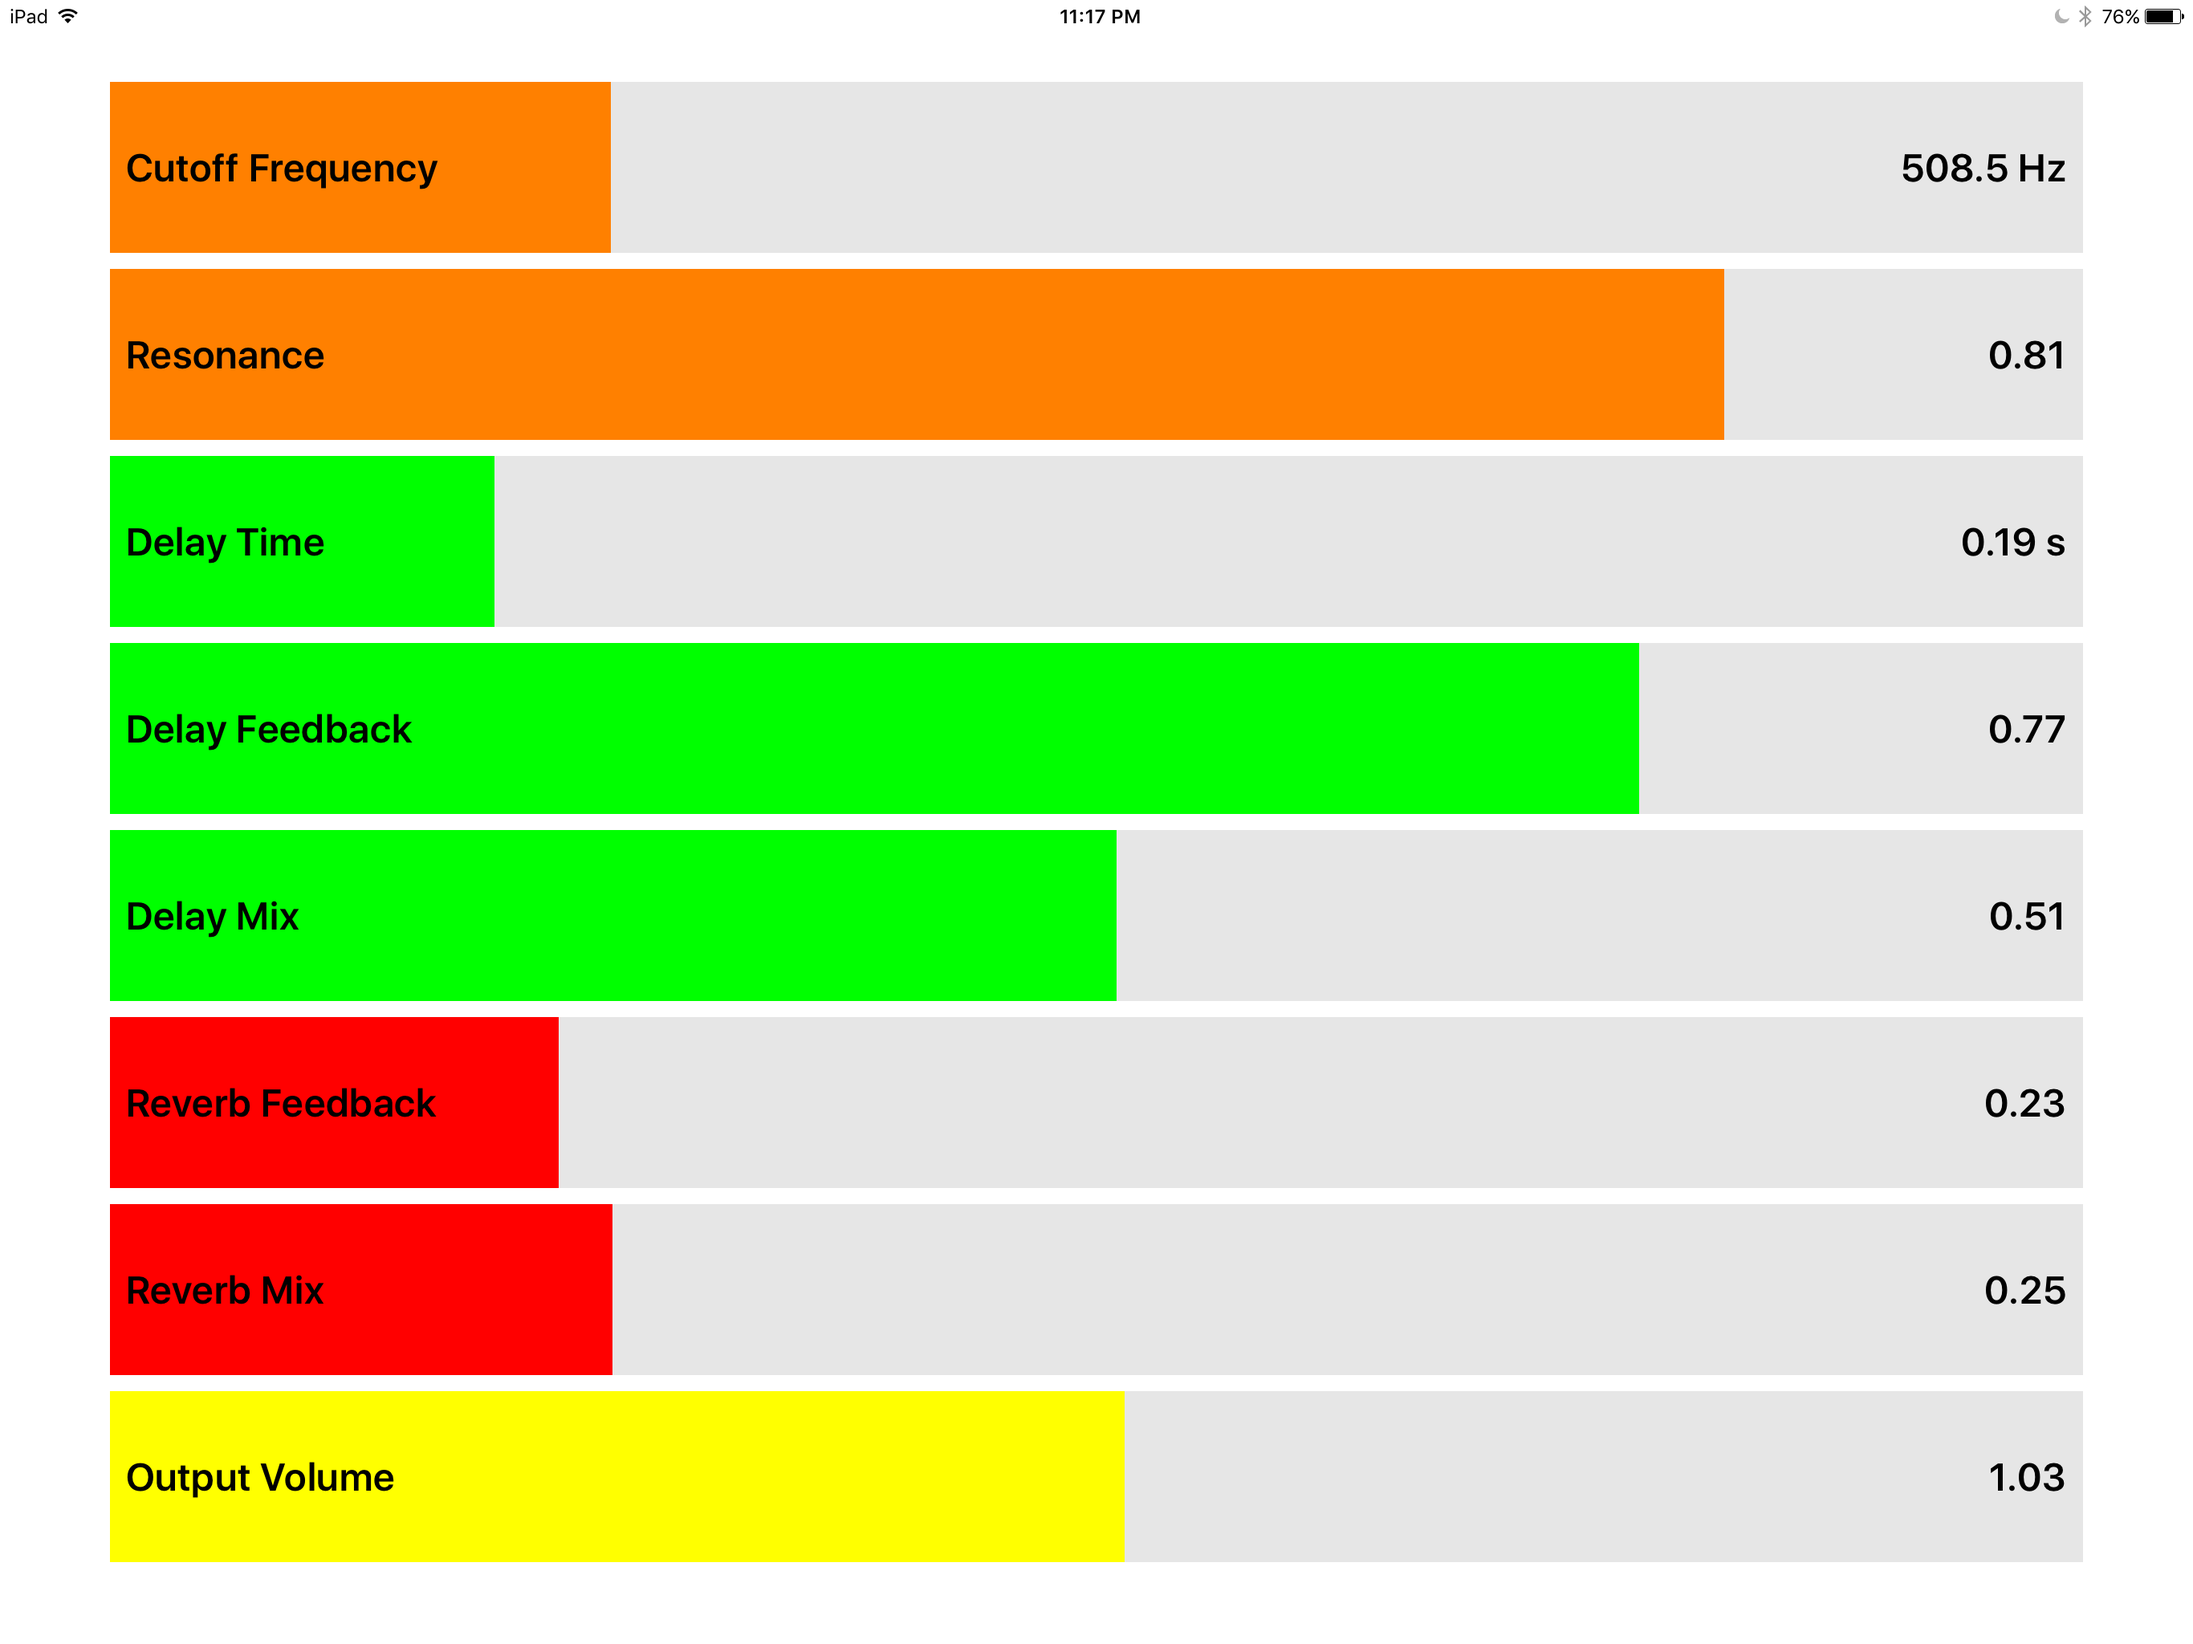
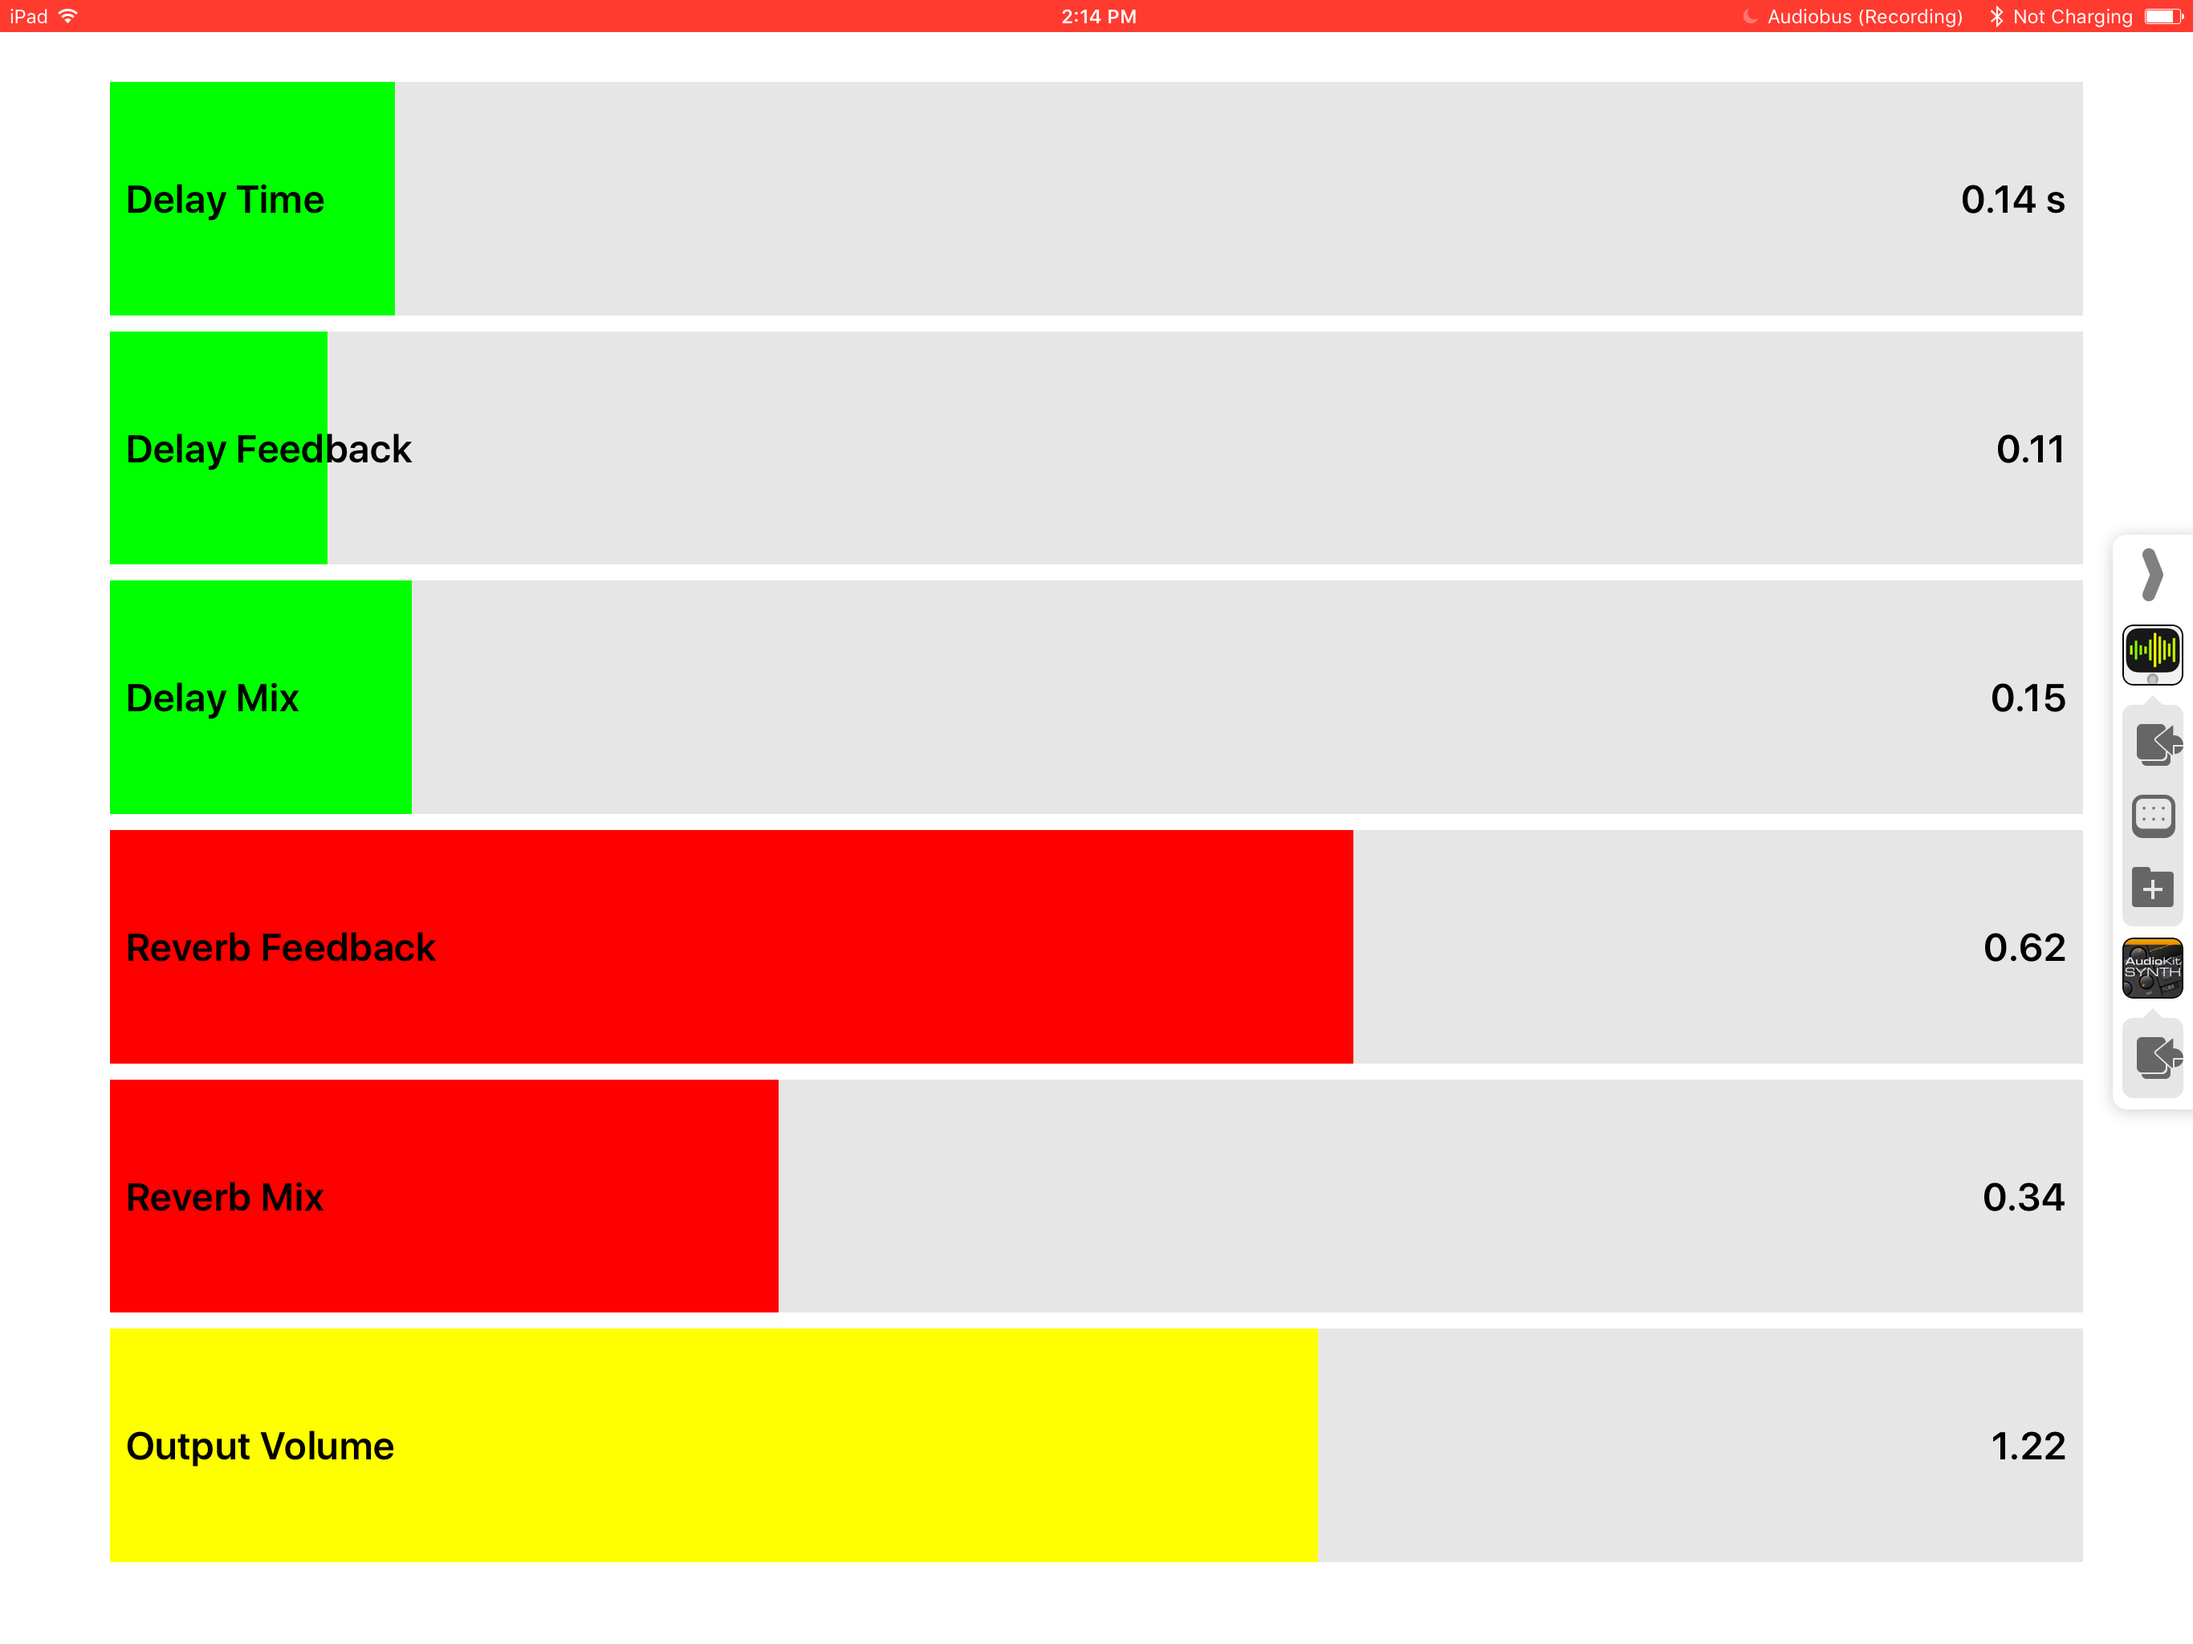
Updated Audiobus docs

diff --git a/audiobus/filter-effects/filter-effects.md b/audiobus/filter-effects/filter-effects.md
@@ -25,36 +25,38 @@ Set up the effects
 The AudioKit code here is a little bit longer than for the synth, mainly so we can offer quite a few effects:
 
 {% highlight ruby %}
-    import UIKit
-    import AudioKit
+import UIKit
+import AudioKit
 
-    class ViewController: UIViewController {
+class ViewController: UIViewController {
 
-        var filter: AKMoogLadder?
-        var delay: AKVariableDelay?
-        var delayMixer: AKDryWetMixer?
-        var reverb: AKCostelloReverb?
-        var reverbMixer: AKDryWetMixer?
-        var booster: AKBooster?
+    var delay: AKVariableDelay?
+    var delayMixer: AKDryWetMixer?
+    var reverb: AKCostelloReverb?
+    var reverbMixer: AKDryWetMixer?
+    var booster: AKBooster?
 
-        override func viewDidLoad() {
-            super.viewDidLoad()
+    override func viewDidLoad() {
+        super.viewDidLoad()
 
-            filter = AKMoogLadder(AKMicrophone())
+        let input = AKStereoInput()
 
-            delay = AKVariableDelay(filter!)
-            delay?.rampTime = 0.5 // Allows for some cool effects
-            delayMixer = AKDryWetMixer(filter!, delay!)
+        delay = AKVariableDelay(input)
+        delay?.rampTime = 0.5 // Allows for some cool effects
+        delayMixer = AKDryWetMixer(input, delay!)
 
-            reverb = AKCostelloReverb(delayMixer!)
-            reverbMixer = AKDryWetMixer(delayMixer!, reverb!)
+        reverb = AKCostelloReverb(delayMixer!)
+        reverbMixer = AKDryWetMixer(delayMixer!, reverb!)
 
-            booster = AKBooster(reverbMixer!)
+        booster = AKBooster(reverbMixer!)
 
-            AudioKit.output = booster
-            AudioKit.start()
-        }
+        AudioKit.output = booster
+        AudioKit.start()
+        Audiobus.start()
+
+        setupUI()
     }
+}
 {% endhighlight %}
 
 It's worth stating that this code will not run in the simulator because it requires an audio input device, which the simulator is not currently able to emulate.  I can't imagine that this won't ever be fixed by Apple, but for now, let's move on.
@@ -78,22 +80,7 @@ Add this UI Set up code to create the UI:
         stackView.distribution = .fillEqually
         stackView.alignment = .fill
         stackView.translatesAutoresizingMaskIntoConstraints = false
-
-        stackView.addArrangedSubview(AKPropertySlider(
-            property: "Cutoff Frequency",
-            format: "%0.1f Hz",
-            value: self.filter!.cutoffFrequency, minimum: 1, maximum: 2000,
-            color: UIColor.orange) { sliderValue in
-                self.filter?.cutoffFrequency = sliderValue
-        })
-
-        stackView.addArrangedSubview(AKPropertySlider(
-            property: "Resonance",
-            format: "%0.2f",
-            value: self.filter!.resonance, minimum: 0, maximum: 0.99,
-            color: UIColor.orange) { sliderValue in
-                self.filter?.resonance = sliderValue
-        })
+        stackView.spacing = 10
 
         stackView.addArrangedSubview(AKPropertySlider(
             property: "Delay Time",
@@ -145,12 +132,13 @@ Add this UI Set up code to create the UI:
 
         view.addSubview(stackView)
 
-        stackView.widthAnchor.constraint(equalToConstant: view.frame.width).isActive = true
-        stackView.heightAnchor.constraint(equalToConstant: view.frame.height).isActive = true
+        stackView.widthAnchor.constraint(equalTo: self.view.widthAnchor, multiplier: 0.9).isActive = true
+        stackView.heightAnchor.constraint(equalTo: self.view.heightAnchor, multiplier: 0.9).isActive = true
 
         stackView.centerXAnchor.constraint(equalTo: self.view.centerXAnchor).isActive = true
         stackView.centerYAnchor.constraint(equalTo: self.view.centerYAnchor).isActive = true
     }
+
 {% endhighlight %}
 This should all work on your device at this point.  And now, we just need to do the configuration song and dance. :)
 

diff --git a/audiobus/index-audiobus.md b/audiobus/index-audiobus.md
@@ -67,7 +67,6 @@ Known Issues
 ============
 
 * AudioKit audio plots seem to stop working when Audiobus is connected.
-* A stereo generator becomes mono when sent through an Audiobus filter.
 
 More Info on Audiobus
 =====================
